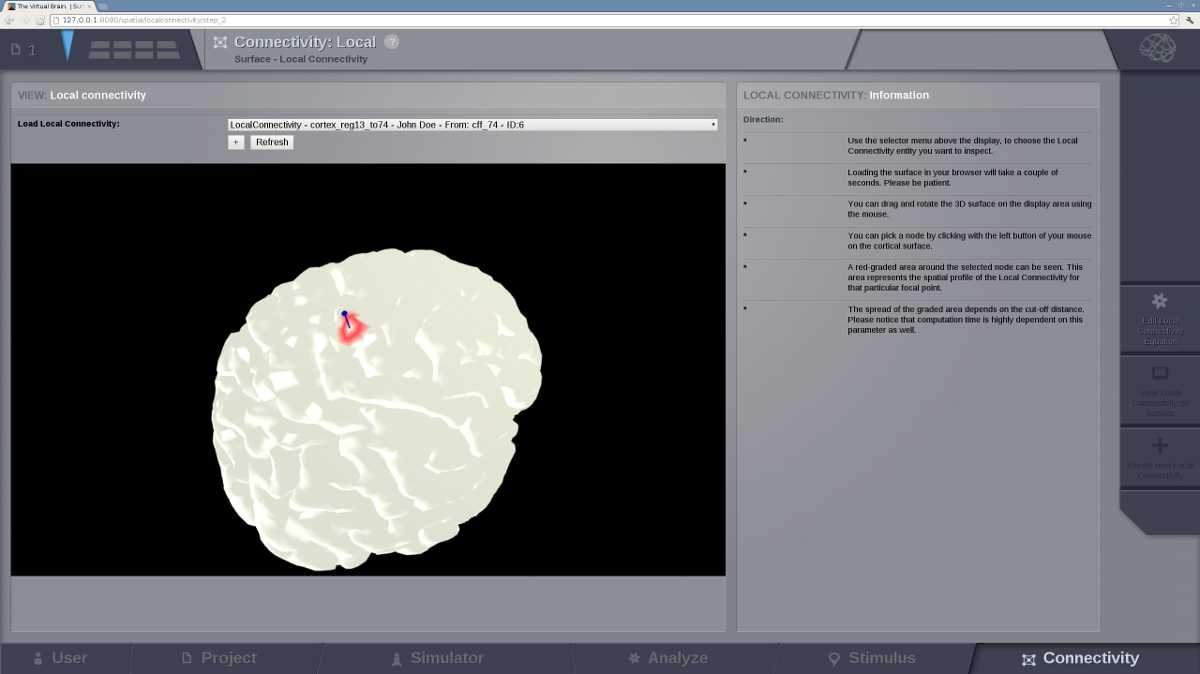
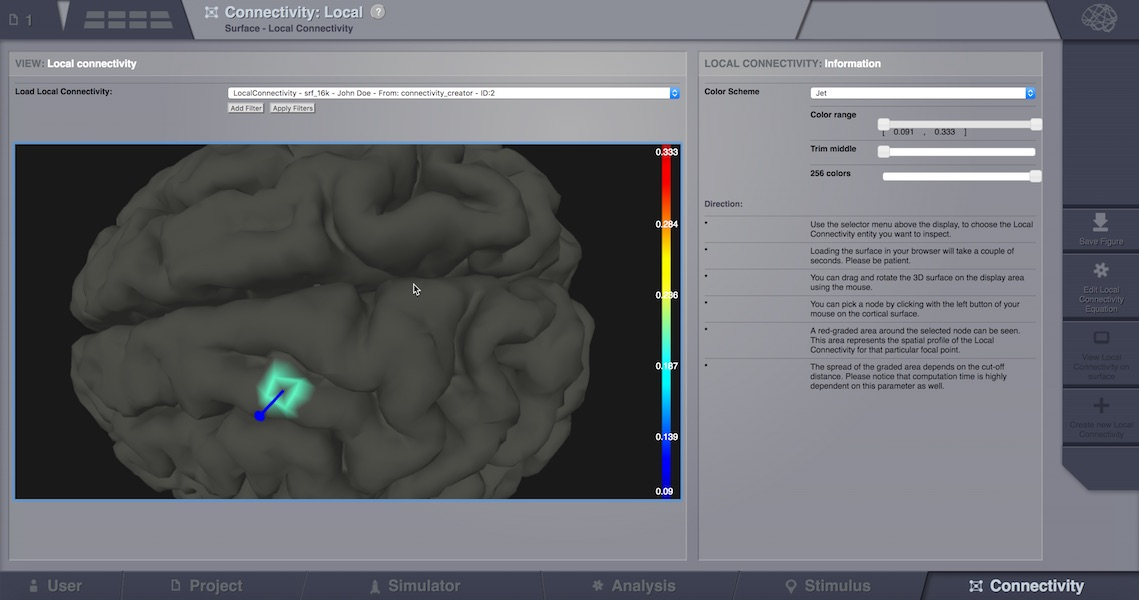
Update screen-shot from Local Connectivity visualizer
git-svn-id: https://repo.thevirtualbrain.org/svn/tvb/trunk@8324 1c0e02f0-7929-43c0-8fb3-3293bf43b0d1

diff --git a/tvb_documentation/manuals/UserGuide/UserGuide-UI_Simulator-Visualizers.rst b/tvb_documentation/manuals/UserGuide/UserGuide-UI_Simulator-Visualizers.rst
@@ -313,12 +313,23 @@ Navigate the 3D scene like in the `Brain Activity Visualizer`_.
 Local Connectivity Visualizer
 ~~~~~~~~~~~~~~~~~~~~~~~~~~~~~
 
-Once a Local Connectivity dataTypes (which in fact is a huge sparse matrix of max size surface
+Once a Local Connectivity DataTypes (which in fact is a huge sparse matrix of max size surface
 vertices x surface vertices, shaped after the cut-off) gets computed, one can view the correlation
-of a given vertex compared to all its neighbours, by launching this viewer (from the DataType overlay).
+of a given vertex compared to all its neighbours, by launching this viewer.
+The Local Connectivity viewer can be launched from the DataType overlay (after clicking on a Local Connectivity
+datatype, and then selecting TAB Visualizers), or from Connectivity (bottom page menu),
+Local Connectivity option on top of the page, then select an existing LocalConnectivity and finally click "View"
+from the right side menu.
 
-In order to see some correlation, one should pick (by mouse click) a vertex on the 3D cortical
-surface once it loads in the canvas.
+.. figure:: screenshots/local_connectivity_viewer.jpg
+   :width: 90%
+   :align: center
+
+   Inspect local connectivity on surface.
+
+In order to see actual correlations, one should pick (by mouse click) a vertex on the 3D cortical
+surface once it loads in the canvas. The colors displayed nearby, show connected vertices with the
+selected point.
 
 
 Annotations Visualizer
